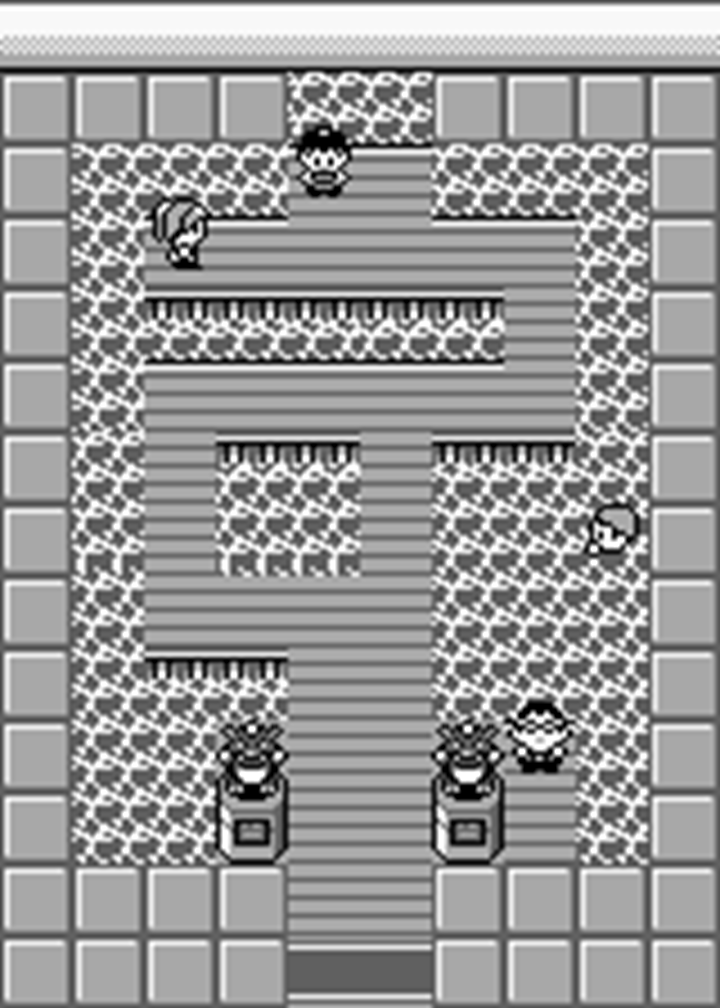
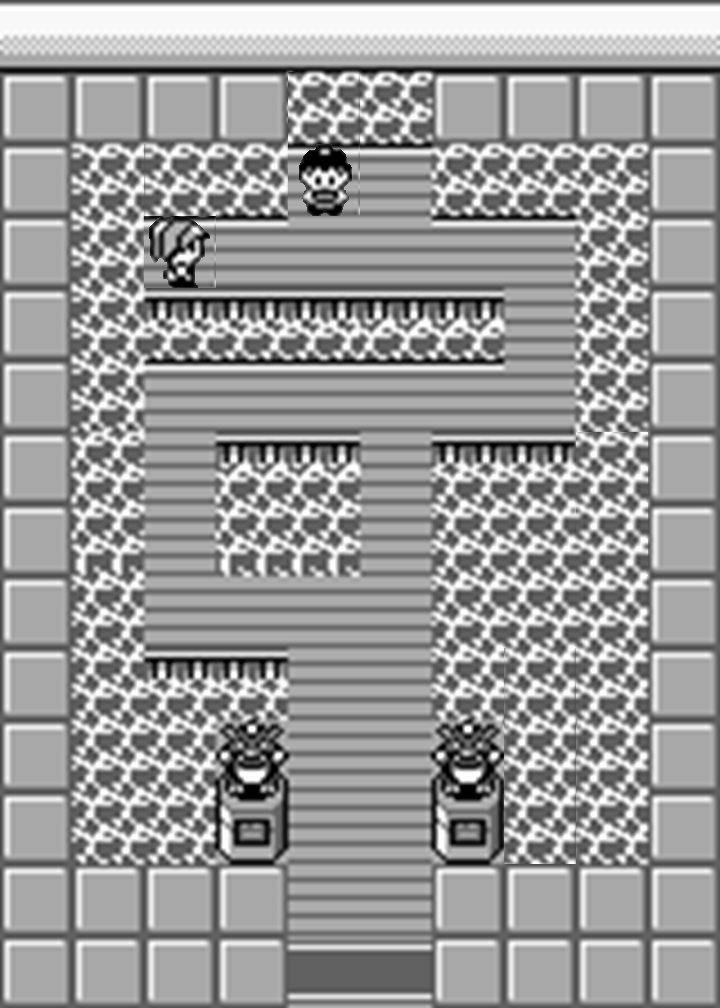
add Oak walking animation

diff --git a/src/AppEvent.cpp b/src/AppEvent.cpp
@@ -353,18 +353,18 @@ void App::Event() {
                 m_TB->Next();
                 if (m_TB->GetLineIndex() == 2) {
                     Player->SetCurrentImagePath(1);
-//                    NPC_Oak->SetCurrentImagePath(0);
-                    NPC_Oak->GetImage()->SetDrawable(
-                            std::make_shared<Util::Image>(RESOURCE_DIR"/Charactor/OakBack.png"));
+                    NPC_Oak->SetCurrentImagePath(0);
+//                    NPC_Oak->GetImage()->SetDrawable(
+//                            std::make_shared<Util::Image>(RESOURCE_DIR"/Charactor/OakBack.png"));
                     NPC_Oak->GetImage()->SetVisible(true);
                     NPC_Oak->GetImage()->SetPosition({36, -180});
                     for (int i = 0; i < Player->GetSpeed(); i++) {
                         NPC_Oak->GetImage()->Move({0, 72.0 / Player->GetSpeed()});
-//                        if (i == Player->GetSpeed() / 4 || i == Player->GetSpeed() / 3 * 2) {
-//                            size_t FrameCount = NPC_Oak->GetImage()->GetFrameCount();
-//                            size_t CurrentFrameIndex = NPC_Oak->GetImage()->GetCurrentFrameIndex();
-//                            NPC_Oak->GetImage()->SetCurrentFrame((CurrentFrameIndex + 1) % FrameCount);
-//                        }
+                        if (i == Player->GetSpeed() / 4 || i == Player->GetSpeed() / 3 * 2) {
+                            size_t FrameCount = NPC_Oak->GetImage()->GetFrameCount();
+                            size_t CurrentFrameIndex = NPC_Oak->GetImage()->GetCurrentFrameIndex();
+                            NPC_Oak->GetImage()->SetCurrentFrame((CurrentFrameIndex + 1) % FrameCount);
+                        }
 
                         m_Root.Update();
                         auto context = Core::Context::GetInstance();
@@ -416,25 +416,24 @@ void App::Event() {
                                 NPC_Oak->GetImage()->Move({temp[i].second.x, 0 - temp[i + 1].second.y});
 
                             if (temp[i + 1].second.y < 0)
-                                NPC_Oak->GetImage()->SetDrawable(
-                                        std::make_shared<Util::Image>(RESOURCE_DIR"/Charactor/OakBack.png"));
+                                NPC_Oak->SetCurrentImagePath(0);
                             else if (temp[i + 1].second.y > 0)
-                                NPC_Oak->GetImage()->SetDrawable(
-                                        std::make_shared<Util::Image>(RESOURCE_DIR"/Charactor/OakFront.png"));
+                                NPC_Oak->SetCurrentImagePath(1);
                             else if (temp[i + 1].second.x > 0)
-                                NPC_Oak->GetImage()->SetDrawable(
-                                        std::make_shared<Util::Image>(RESOURCE_DIR"/Charactor/OakLeft.png"));
+                                NPC_Oak->SetCurrentImagePath(2);
                             else
-                                NPC_Oak->GetImage()->SetDrawable(
-                                        std::make_shared<Util::Image>(RESOURCE_DIR"/Charactor/OakRight.png"));
+                                NPC_Oak->SetCurrentImagePath(3);
 
 
                         }
+
                         if (count == Player->GetSpeed() / 4 || count == Player->GetSpeed() / 3 * 2) {
                             size_t FrameCount = Player->GetImage()->GetFrameCount();
                             size_t CurrentFrameIndex = Player->GetImage()->GetCurrentFrameIndex();
                             Player->GetImage()->SetCurrentFrame((CurrentFrameIndex + 1) % FrameCount);
-//                            NPC_Oak->GetImage()->SetCurrentFrame((CurrentFrameIndex + 1) % FrameCount);
+                            FrameCount = NPC_Oak->GetImage()->GetFrameCount();
+                            CurrentFrameIndex = NPC_Oak->GetImage()->GetCurrentFrameIndex();
+                            NPC_Oak->GetImage()->SetCurrentFrame((CurrentFrameIndex + 1) % FrameCount);
                         }
 
                         m_Root.Update();
@@ -447,9 +446,6 @@ void App::Event() {
                     NPC_OakImage->SetPosition(
                             {round(NPC_OakImage->GetPosition().x), round(NPC_OakImage->GetPosition().y)});
                 }
-                LOG_DEBUG("({},{})", m_MapSystem->GetPosition().x, m_MapSystem->GetPosition().y);
-
-
             }
 
             m_CurrentEvent = EventID::DOOR;

diff --git a/src/AppStart.cpp b/src/AppStart.cpp
@@ -139,10 +139,18 @@ void App::Start() {
 
     tempImagePathses.clear();
     tempImagePathses.resize(4);
-    tempImagePathses.push_back({RESOURCE_DIR"/Charactor/OakBack.png"});
-    tempImagePathses.push_back({RESOURCE_DIR"/Charactor/OakFront.png"});
-    tempImagePathses.push_back({RESOURCE_DIR"/Charactor/OakLeft.png"});
-    tempImagePathses.push_back({RESOURCE_DIR"/Charactor/OakRight.png"});
+    tempImagePathses[0].push_back(RESOURCE_DIR"/Charactor/OakBack_1.png");
+    tempImagePathses[0].push_back(RESOURCE_DIR"/Charactor/OakBack_2.png");
+    tempImagePathses[0].push_back(RESOURCE_DIR"/Charactor/OakBack_1.png");
+    tempImagePathses[0].push_back(RESOURCE_DIR"/Charactor/OakBack_3.png");
+    tempImagePathses[1].push_back(RESOURCE_DIR"/Charactor/OakFront_1.png");
+    tempImagePathses[1].push_back(RESOURCE_DIR"/Charactor/OakFront_2.png");
+    tempImagePathses[1].push_back(RESOURCE_DIR"/Charactor/OakFront_1.png");
+    tempImagePathses[1].push_back(RESOURCE_DIR"/Charactor/OakFront_3.png");
+    tempImagePathses[2].push_back(RESOURCE_DIR"/Charactor/OakLeft_1.png");
+    tempImagePathses[2].push_back(RESOURCE_DIR"/Charactor/OakLeft_2.png");
+    tempImagePathses[3].push_back(RESOURCE_DIR"/Charactor/OakRight_1.png");
+    tempImagePathses[3].push_back(RESOURCE_DIR"/Charactor/OakRight_2.png");
     NPC_Oak = std::make_shared<Character>(tempImagePathses);
     NPC_Oak->GetImage()->SetZIndex(49);
     NPC_Oak->GetImage()->SetVisible(false);
